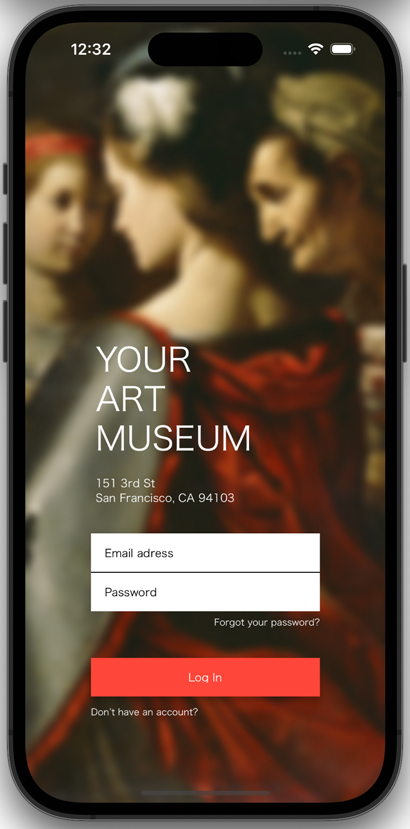
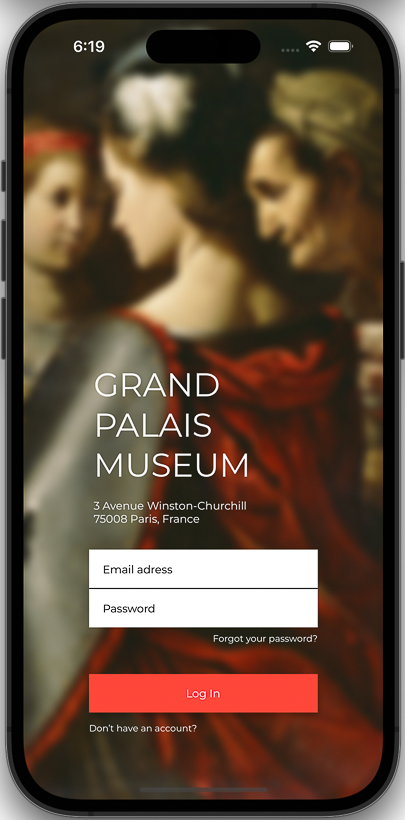
fix: screenshot updated

diff --git a/Museum/LogIn/LogInView.swift b/Museum/LogIn/LogInView.swift
@@ -40,11 +40,11 @@ class LogInView: UIView {
             backgroundImage.bottomAnchor.constraint(greaterThanOrEqualTo: self.bottomAnchor, constant: 30.0),
         ])
         
-        let textMuseum = "YOUR\nART\nMUSEUM"
+        let textMuseum = "GRAND\nPALAIS\nMUSEUM"
         let attributedTextMuseum = textMuseum.setTextStyle(.title)
         labelMuseum.attributedText = attributedTextMuseum
         
-        let textAdress = "151 3rd St\nSan Francisco, CA 94103"
+        let textAdress = "3 Avenue Winston-Churchill\n75008 Paris, France"
         let attributedTextAdress = textAdress.setTextStyle(.subtitle)
         labelAdress.attributedText = attributedTextAdress
         
